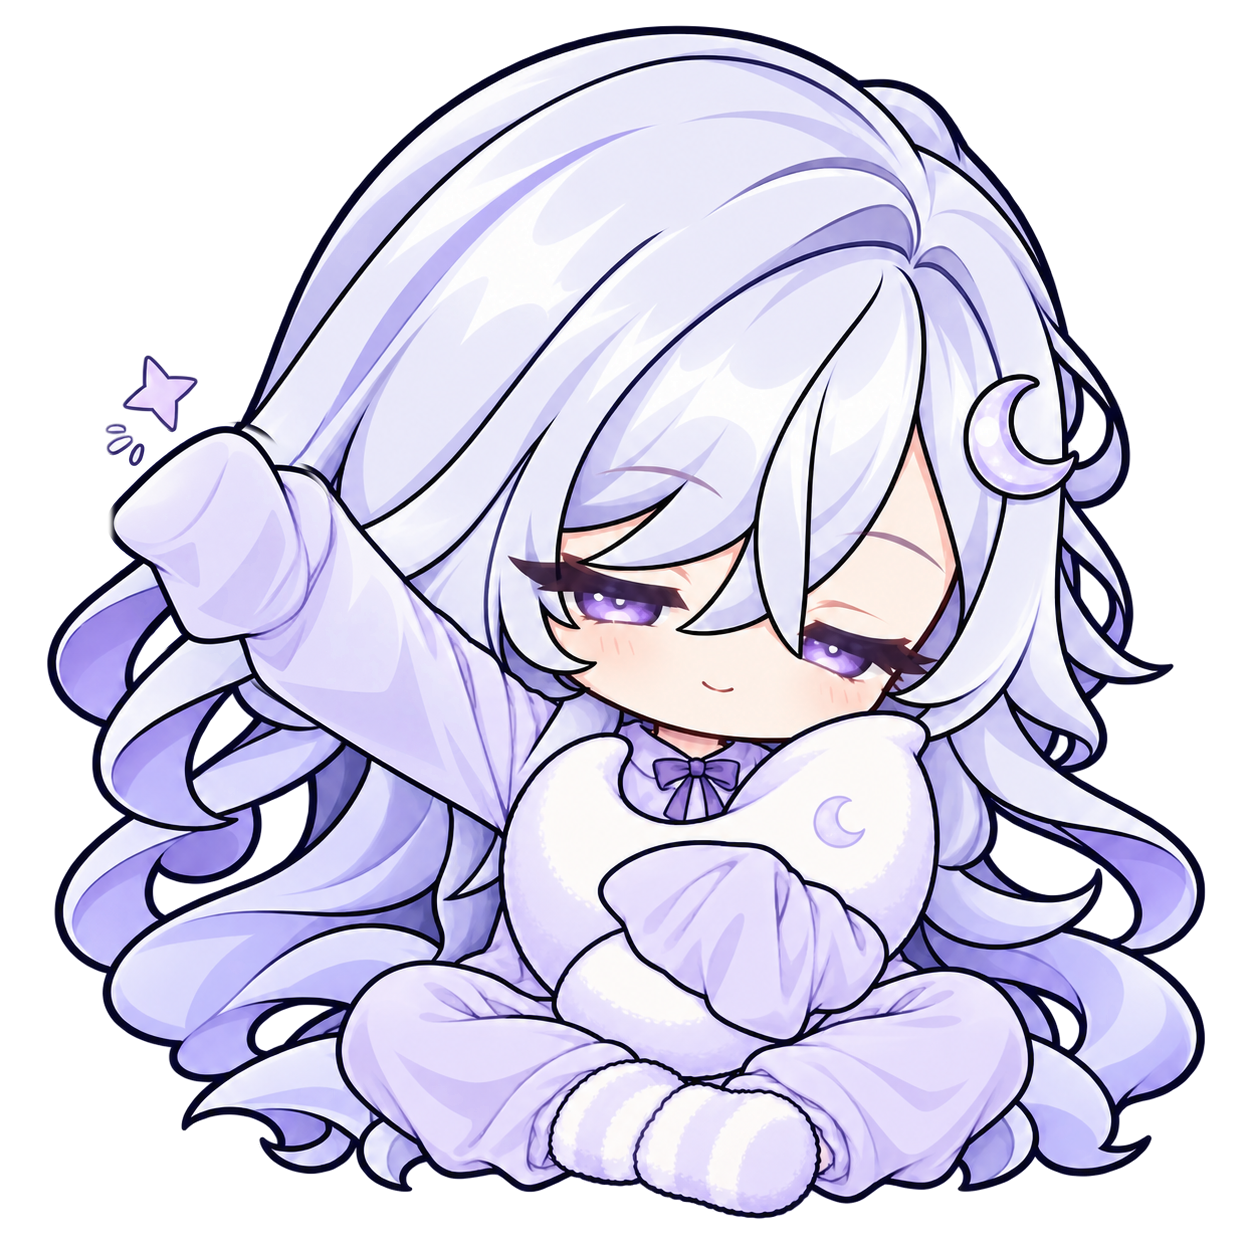
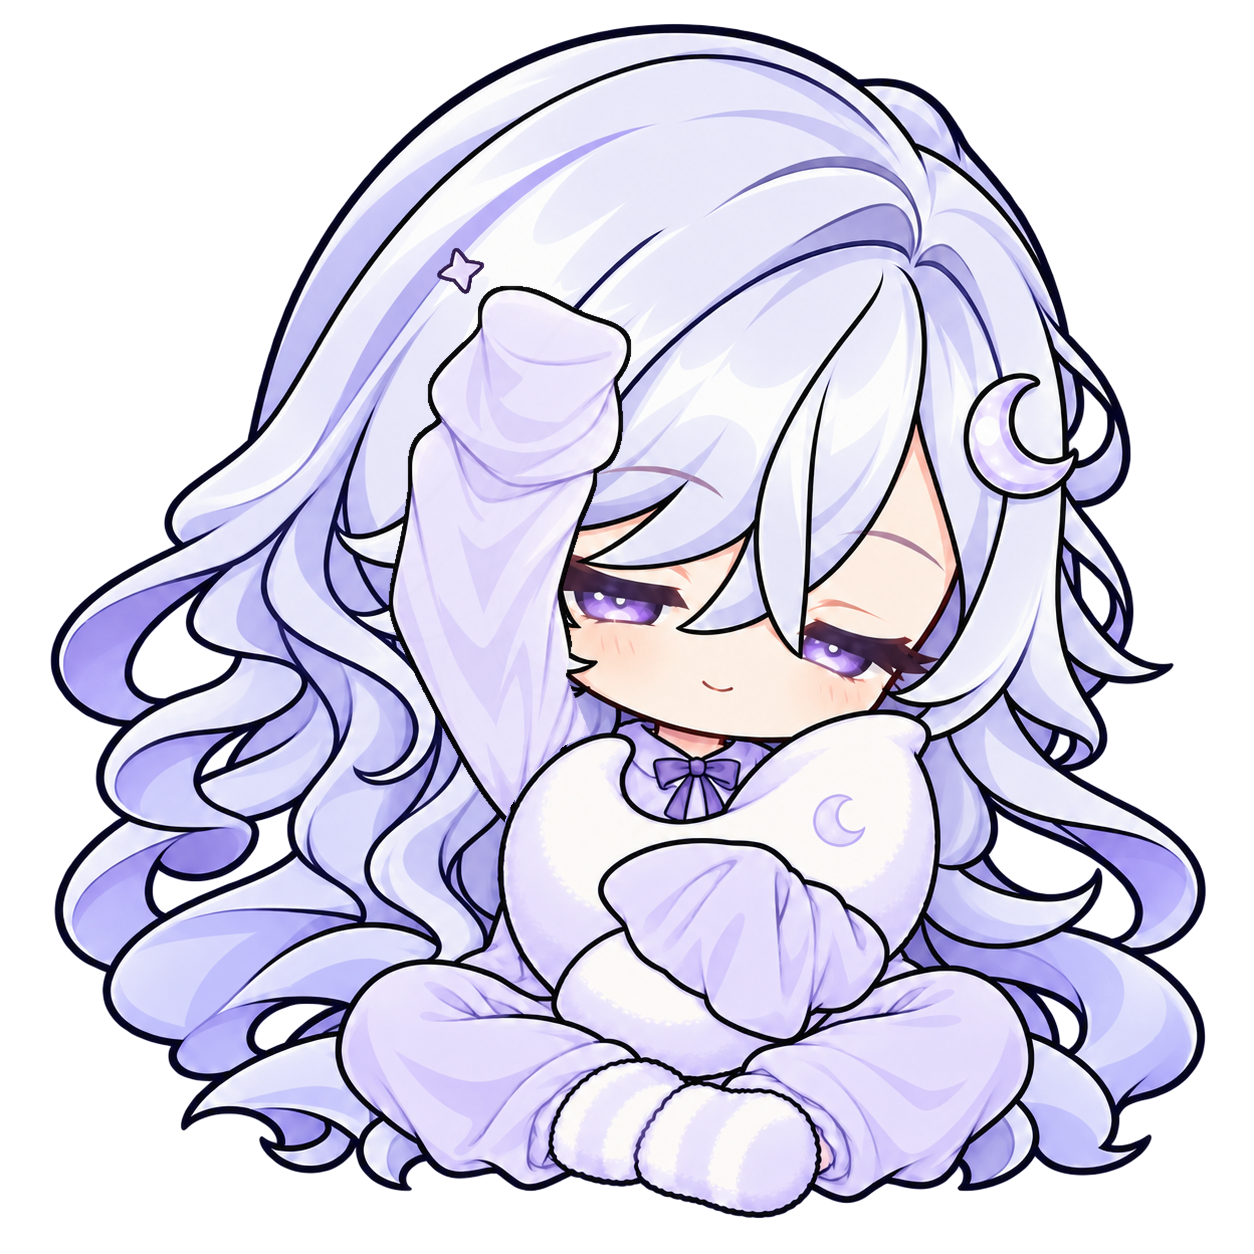
art: redraw goodnight with a large sleeve-covered wave

diff --git a/assets/v2_3/GENERATION.md b/assets/v2_3/GENERATION.md
@@ -25,14 +25,16 @@
 | night_sleep | 3 | 侧躺抱枕，呼吸袖褶、Zzz上飘14px、小幅收腿翻身蹭枕头 |
 | night_milk | 2 | 双袖捧杯；第2帧仅热气变化，杯子和手臂不动 |
 | night_read | 2+眨眼 | 盖小被子趴着看图画书，后脚轻踢，眨眼只改眼部 |
-| night_goodnight | 2 | 一袖挥晚安，另一袖抱枕；挥手小幅摆动 |
+| night_goodnight | 2 | 一袖向外举高→整臂向内大幅摆回约43°，另一袖抱枕；星星换位变小 |
 | night_wake | 2 | 起身揉眼，头发微乱，枕头滑到腿上；第2帧袖子/枕头轻动 |
 
 - 图画书只含月亮、星星、云朵图案，无文字。睡觉图的Zzz、小月亮和晚安/醒来的小星星是文档明确允许的符号。
 - 眨眼只使用眼部蒙版；睡觉翻身帧的头发与身体属于活动区域，不能把它们误记为静止区域。
 - 生成时发现的换装衣物接缝、旧枕头边缘残留、牛奶袖口重影及透明缺口均在最终交付前修复；不合格原始生成留在恢复目录供追溯，不作为交付帧。
 
-## 已执行静态检查
+## 2026-10-09整套交付时的静态检查
+
+以下为b933221交付检查；2026-10-10重做的晚安两帧以本文末尾的新检查和SHA256为准。
 
 - 25/25：1254×1254、PNG、RGBA、真实alpha通道；不是棋盘格或白底图。
 - 17/17局部合成：有效蒙版外RGBA变化为0，包含4张换装、既有4张待机派生及其余局部动画帧。两个眨眼图仅眼部变动。
@@ -70,8 +72,8 @@ Pillow `(left, top, right, bottom)`，右/下边界不包含。
 | `night_read_1.png` | `(40, 212, 1214, 1219)` | 全姿势母图 |
 | `night_read_2.png` | `(40, 212, 1233, 1219)` | night_read_1 |
 | `night_read_blink.png` | `(40, 212, 1214, 1219)` | night_read_1 |
-| `night_goodnight_1.png` | `(47, 25, 1206, 1219)` | 全姿势母图 |
-| `night_goodnight_2.png` | `(47, 25, 1206, 1219)` | night_goodnight_1 |
+| `night_goodnight_1.png` | `(45, 23, 1206, 1219)` | 共用静态母图 + 独立挥手/星星图层（2026-10-10） |
+| `night_goodnight_2.png` | `(50, 23, 1206, 1219)` | 共用静态母图 + 独立挥手/星星图层（2026-10-10） |
 | `night_wake_1.png` | `(57, 30, 1197, 1219)` | 全姿势母图 |
 | `night_wake_2.png` | `(57, 30, 1197, 1219)` | night_wake_1 |
 
@@ -81,3 +83,35 @@ Pillow `(left, top, right, bottom)`，右/下边界不包含。
 - 完整提示词、参考、父帧、蒙版多边形、alpha bbox、SHA256及校验结果见 `GENERATION.json`。
 - 本批恢复目录：`D:\Documents\ChatGPT\petoken-takeover-backups\v2.3-art-batch2`，含原始生成、局部参考、蒙版、脚本、validation.json及PROGRESS.md。第一批原4张换装已被本次替换，旧记录仍在original-firstbatch中。
 - 下一步由用户验收第二批；本地提交到codex/v2.3-art，不合并、不推送。
+
+## 2026-10-10 · 晚安挥手幅度重画
+
+本节取代b933221中的两张晚安图。本次严格只改night_goodnight_1.png、night_goodnight_2.png、本文件及docs/V2_3_ART_PREVIEW.png；不新增眨眼、不改代码，也不改其他动作。
+
+### 制作方式
+
+- 使用imagegen依据原night_goodnight_1绘制两种整臂挥手姿势，以及移除挥手手臂后的共用静态母图；先前尝试的局部头发补图产生接缝，弃用。
+- 用户已授权Pillow做图层提取、透明边缘清理、合成和预览。两张分别提取新的手臂及小星星，叠到同一份RGBA静态母图；用固定枕头前景保护区恢复完整枕头/抱枕袖子，y>=835整条身体/腿部区域也复用母图原像素。
+- 共用母图只做一次基线注册（y方向-1px），两帧不独立居中、缩放。头和头发主体保持固定，不增加可选的歪头微动；手臂经过头发时仅遮挡/露出，头发底图不移动。
+- 第1帧袖子盖手，整臂向人物外侧高举。第2帧整臂向内摆到近竖直位置，袖口随姿势重绘。第1帧星星在外侧较大，第2帧移到手边并缩小，形成闪烁。
+
+### 当前版本验证
+
+- 2/2：1254×1254、RGBA PNG、真实透明背景，四条画布边缘alpha均为0，最低有效像素y=1218。
+- 两帧有效挥手手臂/星星蒙版联合区域以外，RGBA变化像素为0。枕头保护区、整个y>=835身体/腿部区域变化像素都为0；保持静态头部及头发底图。
+- 两帧alpha>0连通块检查无小于24像素的离散脏点；星星属于允许的独立图形。已查看浅紫背景大图及128px深色预览，并检查袖口、肩部衔接和头发露出区域。
+- 手部框为人工在1254px图上标注，中心分别(177.0, 430.0)、(530.5, 385.0)；肩部近似标注(507, 822)。按肩到手部框中心向量计算，摆幅约43.2°，手部中心位移356.4px，大于手部框宽203px。角度是二维图像标注估算，不是3D骨骼测量。
+- 按整张1254²画布RGBA任一通道变化计数，两帧变化像素167207，占10.63%。
+
+| 当前文件 | SHA256 | Alpha bbox |
+|---|---|---|
[2 lines of base64/hex data omitted]
+
+### 追溯与接入
+
+- 旧GENERATION.json保留2026-10-09历史记录；按照本次四文件范围没有修改它。其晚安条目的旧SHA、父帧/蒙版及批次验证不代表当前两张图，本节的新数据为准。
+- 恢复目录：`D:\Documents\ChatGPT\petoken-takeover-backups\v2.3-goodnight-wave`，包含原图备份、全部生成来源/提示词、共用底图、图层蒙版、compose.py、validate.py、validation.json及PROGRESS.md。
+- 当前选用生成源：共用底图`C:\Users\fengz\.codex\generated_images\01a0d97f-5017-71c2-8ba4-181bc329b670\exec-dc2431ae-4fc0-41da-94ee-cb5f8c55439d.png`；帧1手臂/星星`C:\Users\fengz\.codex\generated_images\01a0d97f-5017-71c2-8ba4-181bc329b670\exec-3b67832b-b676-40c5-a71d-1ba0130a0bc7.png`；帧2手臂/星星`C:\Users\fengz\.codex\generated_images\01a0d97f-5017-71c2-8ba4-181bc329b670\exec-82d99ab1-550a-417b-ba40-4772e5486618.png`。
+- 不合格局部底图和首次合成保留在恢复目录供追溯，不作为交付。
+- 静态美术验证完成，未改动画播放节奏或运行时实现。本地提交codex/v2.3-art，不合并、不推送，等待用户确认新挥手效果。
